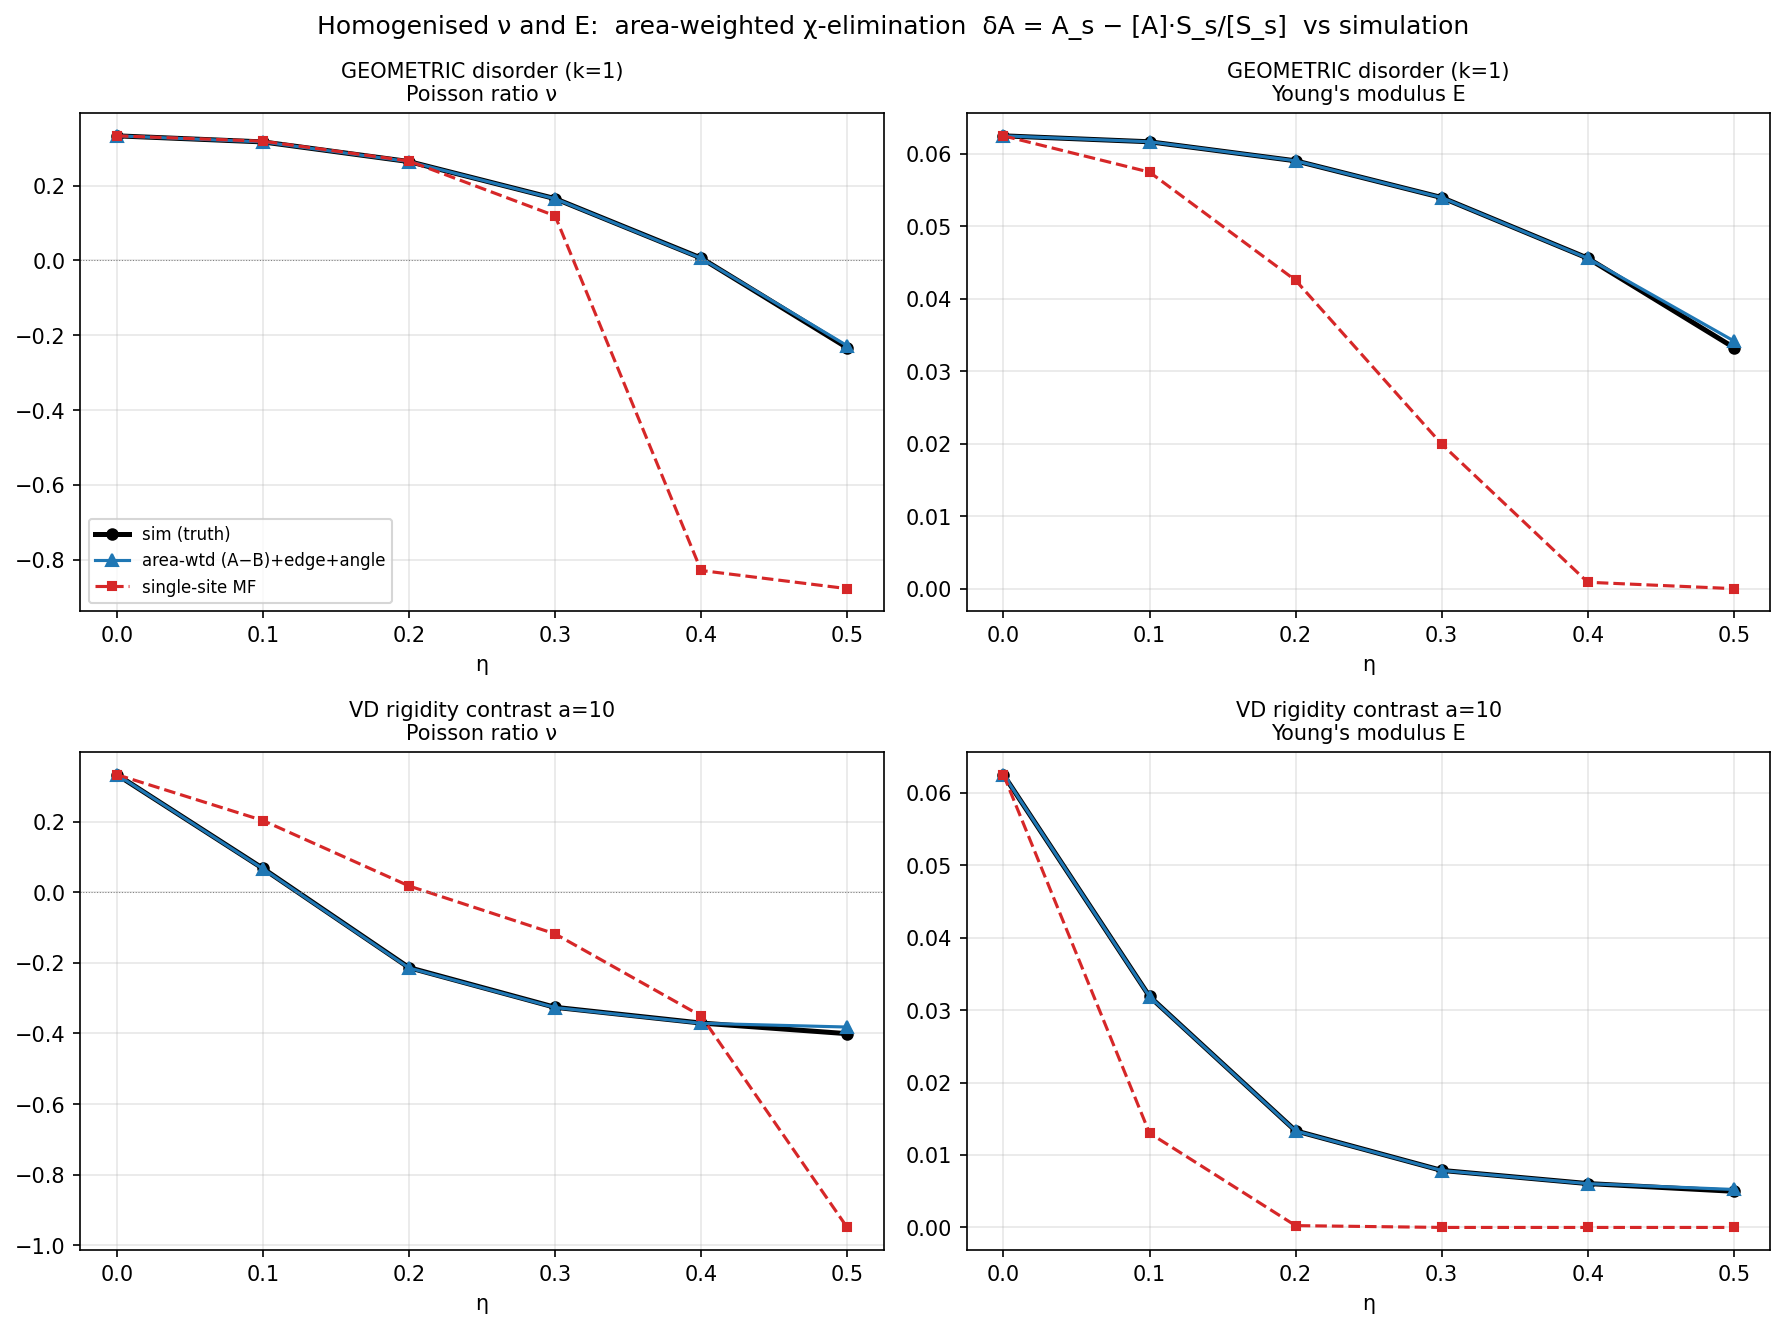
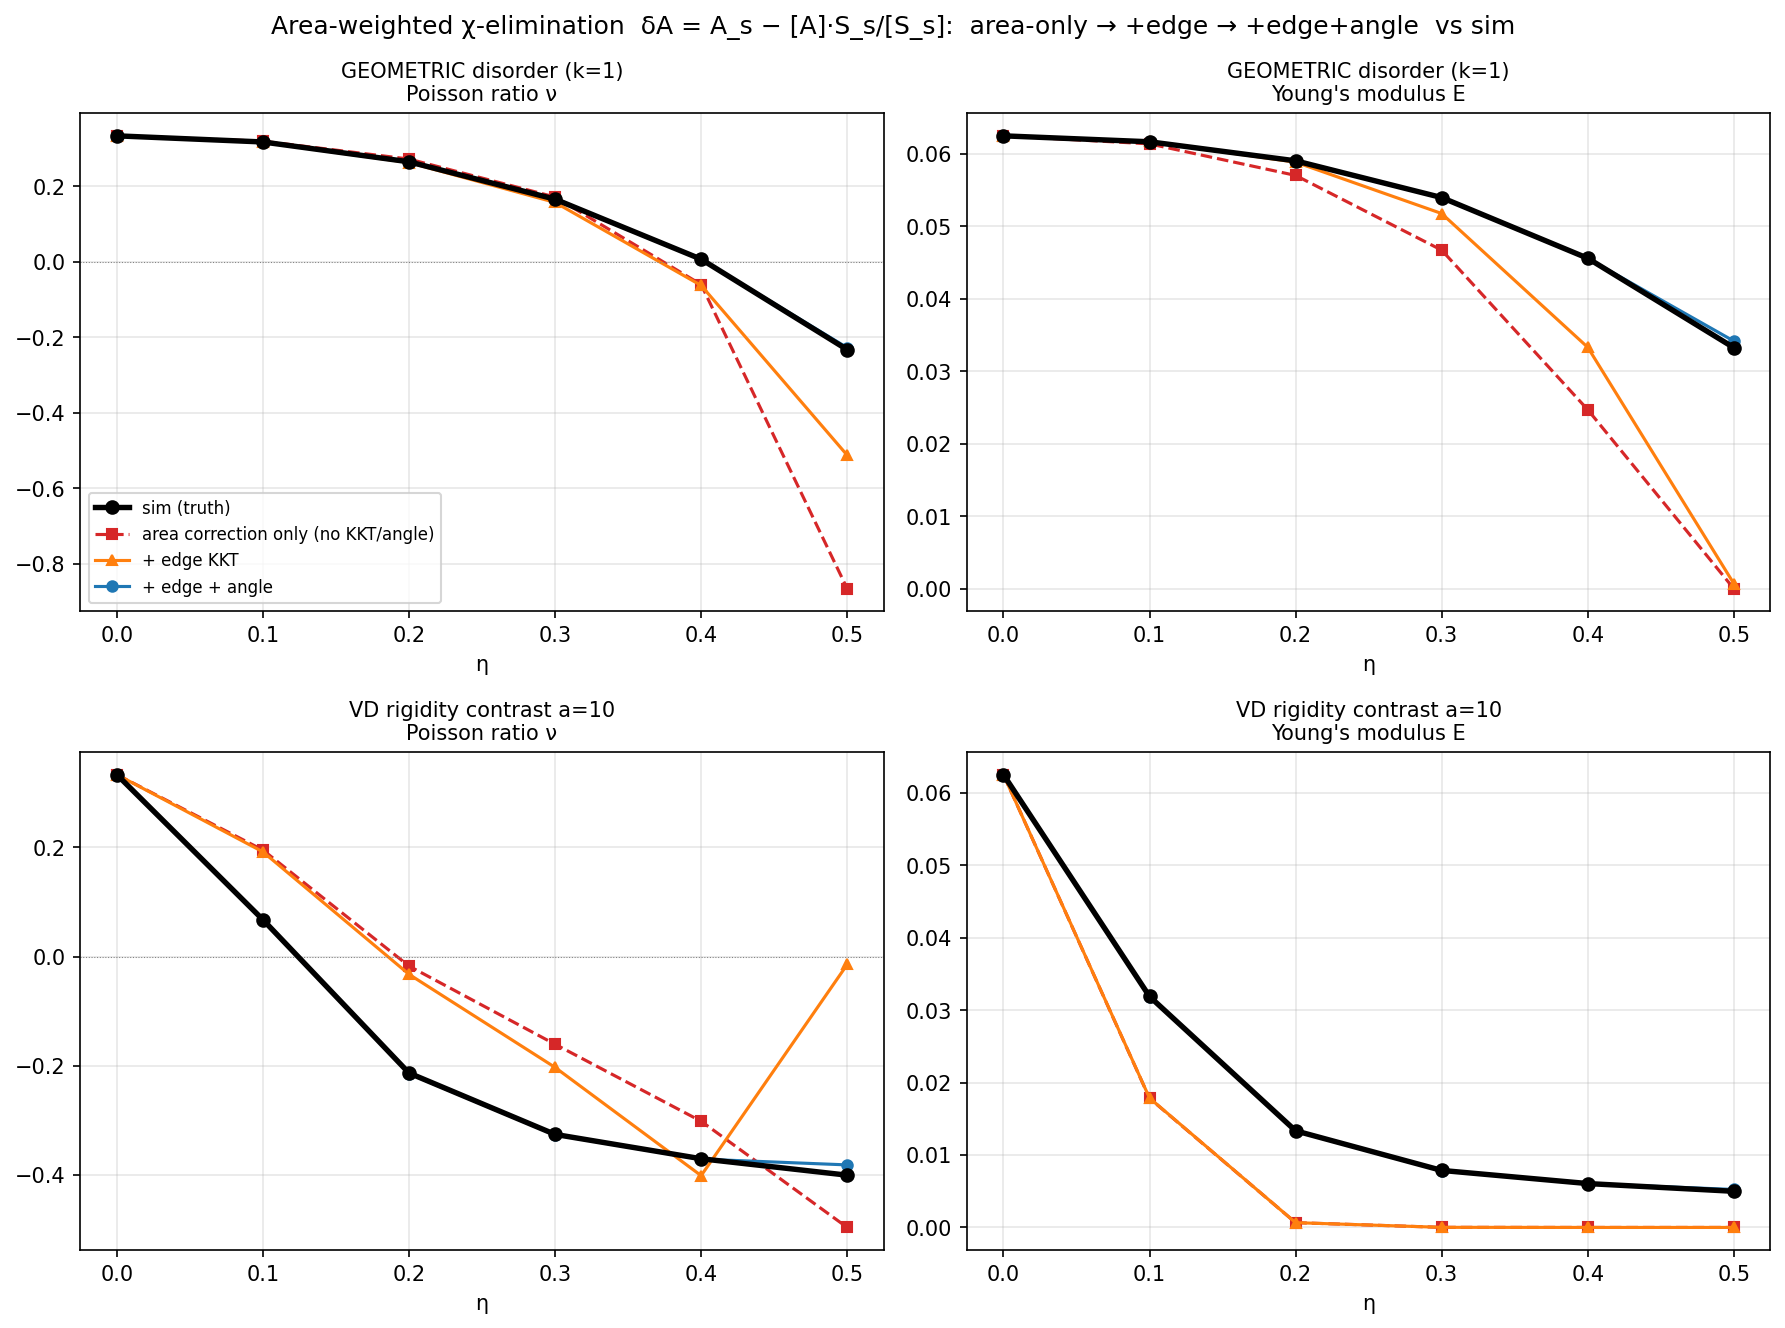
breakdown: nu/E plot of area-weighted dA in 3 configs (area-only / +edge / +edge+angle) vs sim
Shows only +edge+angle (all) tracks sim across eta for geometric and VD; area-only
and edge-only fall off and collapse under VD - curvature is the decisive constraint.

https://claude.ai/code/session_01LTDrN2qP3bjq6eueEmYp15

diff --git a/breakdown/verify_subchoice2_nuE.py b/breakdown/verify_subchoice2_nuE.py
@@ -28,8 +28,9 @@ ETAS = [0.0, 0.1, 0.2, 0.3, 0.4, 0.5]
 VD_CONTRAST = 10
 
 
-def W3_AmB(A3, S, ev, sx, n_node, kkt):
-    """Loading-independent W3 (n_tri,3,3) from (A-B)+edge+angle with dA = A_s - [A] S_s/[S_s]."""
+def W3_AmB(A3, S, ev, sx, n_node, kkt, config):
+    """Loading-independent W3 (n_tri,3,3) from (A-B) with dA = A_s - [A] S_s/[S_s].
+    config: 'none' (area correction only), 'edge' (+KKT), 'all' (+edge+angle/curvature)."""
     n_tri = A3.shape[0]; V = S.sum()
     dA = A3 - (S[:, None, None] / V) * A3.sum(0)
     Hblk = np.zeros((3*n_tri, 3*n_tri)); Bdense = np.zeros((3*n_tri, 3*n_tri))
@@ -38,12 +39,19 @@ def W3_AmB(A3, S, ev, sx, n_node, kkt):
         Hblk[3*s:3*s+3, 3*s:3*s+3] = A3[s]
         Bdense[3*s:3*s+3, :] = (S[s]/V) * dA_row
     AmB = Hblk - Bdense
-    Cc = np.vstack([edge_op(kkt, n_tri).toarray(), curv_op(sx, ev, n_node, n_tri).toarray()])
-    nC = Cc.shape[0]
-    K = np.block([[AmB, Cc.T], [Cc, np.zeros((nC, nC))]])
+    blocks = []
+    if config in ('edge', 'all'):
+        blocks.append(edge_op(kkt, n_tri).toarray())
+    if config == 'all':
+        blocks.append(curv_op(sx, ev, n_node, n_tri).toarray())
     Fk = [np.eye(2) + DELTA*M for M in MODES]
     Dg_k = [CE.vec3(F.T@F - np.eye(2)) for F in Fk]
     Dinv = np.linalg.inv(np.stack(Dg_k, axis=1))
+    if blocks:
+        Cc = np.vstack(blocks); nC = Cc.shape[0]
+        K = np.block([[AmB, Cc.T], [Cc, np.zeros((nC, nC))]])
+    else:
+        K = AmB; nC = 0
     D = np.zeros((n_tri, 3, 3))
     for k, dgv in enumerate(Dg_k):
         rhs = np.concatenate([-(dA @ dgv).reshape(3*n_tri), np.zeros(nC)])
@@ -69,33 +77,35 @@ def sim_W3(mesh, A_assemble, tmc, dgt_full):
 def geometric(eta):
     mesh = pda.build_periodic_tf_mesh(N, eta, seed=0)
     bare = CE.bare_tensor(mesh); A3 = Hblocks(mesh['edge_vecs'])
+    args = (A3, mesh['areas'], mesh['edge_vecs'], mesh['simplices'], len(mesh['pts']), mesh['kkt_arrays'])
     w3_s = sim_W3(mesh, pda._assemble_K_and_faff, pda.triangle_metric_change, None)
-    w3_a = W3_AmB(A3, mesh['areas'], mesh['edge_vecs'], mesh['simplices'], len(mesh['pts']), mesh['kkt_arrays'])
-    w3_m = RG.mf_W3(bare)
-    return mesh, bare, w3_s, w3_a, w3_m
+    w3 = {cfg: W3_AmB(*args, cfg) for cfg in ('none', 'edge', 'all')}
+    return mesh, bare, w3_s, w3
 
 
 def vd(eta, a):
     geo = VD.build_geometry(N, eta, seed=0); VD.set_VD(geo, a)
     bare = TR.bare_tensor(geo); A3 = Hblocks_vd(geo['edge_vecs'], geo['tri_k'])
     kkt = kkt_from_tri_bond(geo['tri_bond'], geo['edge_vecs'])
+    args = (A3, geo['areas'], geo['edge_vecs'], geo['simplices'], len(geo['pts']), kkt)
     w3_s = sim_W3(geo, TR.assemble_K_faff, CE.tri_metric_change, None)
-    w3_a = W3_AmB(A3, geo['areas'], geo['edge_vecs'], geo['simplices'], len(geo['pts']), kkt)
-    w3_m = RG.mf_W3(bare)
-    return geo, bare, w3_s, w3_a, w3_m
+    w3 = {cfg: W3_AmB(*args, cfg) for cfg in ('none', 'edge', 'all')}
+    return geo, bare, w3_s, w3
 
 
 def run(name, builder):
-    print(f"\n=== {name} ===  nu / E:  sim | area-wtd (A-B)+edge+angle | single-site MF")
-    out = {k: [] for k in ['nu_s', 'nu_a', 'nu_m', 'E_s', 'E_a', 'E_m']}
+    print(f"\n=== {name} ===  nu / E:  sim | none(area only) | edge | all(edge+angle)")
+    out = {k: [] for k in ['nu_s', 'nu_none', 'nu_edge', 'nu_all', 'E_s', 'E_none', 'E_edge', 'E_all']}
     for eta in ETAS:
-        mesh, bare, w3_s, w3_a, w3_m = builder(eta)
+        mesh, bare, w3_s, w3 = builder(eta)
         ns, Es = CE.Ceff_nuE(mesh, w3_s, bare)
-        na, Ea = CE.Ceff_nuE(mesh, w3_a, bare)
-        nm, Em = CE.Ceff_nuE(mesh, w3_m, bare)
-        for k, v in zip(out, [ns, na, nm, Es, Ea, Em]):
+        nn_, En = CE.Ceff_nuE(mesh, w3['none'], bare)
+        ne, Ee = CE.Ceff_nuE(mesh, w3['edge'], bare)
+        na, Ea = CE.Ceff_nuE(mesh, w3['all'], bare)
+        for k, v in zip(out, [ns, nn_, ne, na, Es, En, Ee, Ea]):
             out[k].append(v)
-        print(f"  eta={eta:.1f}: nu {ns:+.3f}/{na:+.3f}/{nm:+.3f}   E {Es:.4f}/{Ea:.4f}/{Em:.4f}", flush=True)
+        print(f"  eta={eta:.1f}: nu {ns:+.3f}/{nn_:+.3f}/{ne:+.3f}/{na:+.3f}"
+              f"   E {Es:.4f}/{En:.4f}/{Ee:.4f}/{Ea:.4f}", flush=True)
     return out
 
 
@@ -103,19 +113,22 @@ def main():
     cases = [('GEOMETRIC disorder (k=1)', geometric),
              (f'VD rigidity contrast a={VD_CONTRAST}', lambda e: vd(e, VD_CONTRAST))]
     results = [(name, run(name, b)) for name, b in cases]
+    style = [('none', '#d62728', '--s', 'area correction only (no KKT/angle)'),
+             ('edge', '#ff7f0e', '-^', '+ edge KKT'),
+             ('all',  '#1f77b4', '-o', '+ edge + angle')]
     fig, axes = plt.subplots(2, 2, figsize=(12, 9), squeeze=False)
     for i, (name, o) in enumerate(results):
         for j, (key, ttl) in enumerate([('nu', "Poisson ratio ν"), ('E', "Young's modulus E")]):
             ax = axes[i, j]
-            ax.plot(ETAS, o[f'{key}_s'], 'k-o', lw=2.4, ms=5, label='sim (truth)')
-            ax.plot(ETAS, o[f'{key}_a'], '-^', color='#1f77b4', ms=6, label='area-wtd (A−B)+edge+angle')
-            ax.plot(ETAS, o[f'{key}_m'], '--s', color='#d62728', ms=4, label='single-site MF')
+            ax.plot(ETAS, o[f'{key}_s'], 'k-o', lw=2.6, ms=6, label='sim (truth)', zorder=5)
+            for cfg, col, mk, lab in style:
+                ax.plot(ETAS, o[f'{key}_{cfg}'], mk, color=col, ms=5, label=lab)
             if key == 'nu':
                 ax.axhline(0, color='gray', lw=0.5, ls=':')
             ax.set_xlabel('η'); ax.set_title(f'{name}\n{ttl}', fontsize=10); ax.grid(alpha=0.3)
             if i == 0 and j == 0:
                 ax.legend(fontsize=8)
-    fig.suptitle('Homogenised ν and E:  area-weighted χ-elimination  δA = A_s − [A]·S_s/[S_s]  vs simulation',
+    fig.suptitle('Area-weighted χ-elimination  δA = A_s − [A]·S_s/[S_s]:  area-only → +edge → +edge+angle  vs sim',
                  fontsize=12)
     plt.tight_layout()
     p = os.path.join(HERE, 'plots', 'dg_subchoice2_nuE.png')
